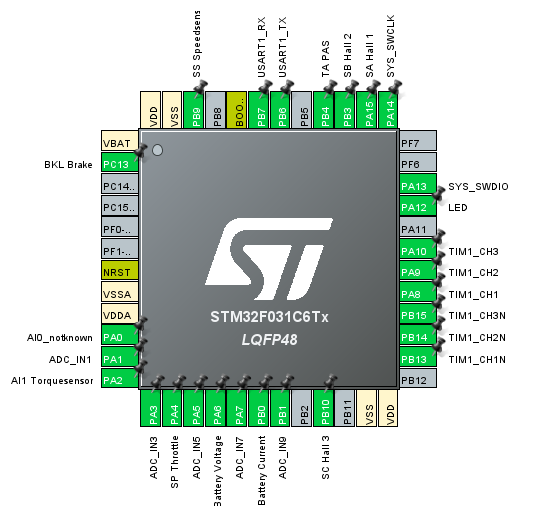
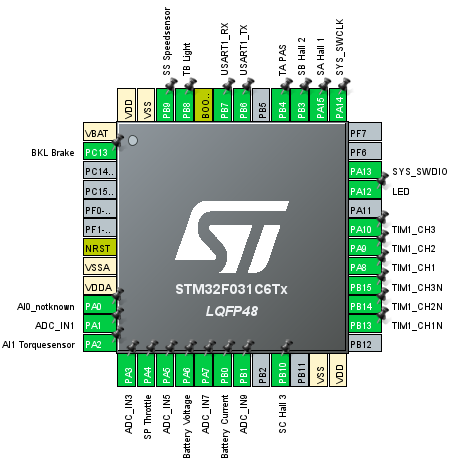
Brake sensor and Light output added

Changed region(s): [[0.0, 0.0302, 0.9676, 0.9978], [0.3629, 0.4233, 0.635, 0.6955]]

diff --git a/Core/Src/main.c b/Core/Src/main.c
@@ -247,10 +247,10 @@ int main(void)
     Error_Handler();
   }
 
-
-  LL_TIM_OC_SetCompareCH1(TIM1, 0);
-  LL_TIM_OC_SetCompareCH2(TIM1, 0);
-  LL_TIM_OC_SetCompareCH3(TIM1, 0);
+  LL_TIM_DisableAllOutputs(TIM1);
+  LL_TIM_OC_SetCompareCH1(TIM1, 1);
+  LL_TIM_OC_SetCompareCH2(TIM1, 1);
+  LL_TIM_OC_SetCompareCH3(TIM1, 1);
 
   //HAL_Delay(1000); //wait for stable conditions
 
@@ -265,7 +265,7 @@ int main(void)
 	  }
   ui16_battery_current_offset=(ui16_battery_current_offset>>5);
   i16_battery_current_cumulated=ui16_battery_current_offset<<4;
-  LL_TIM_DisableAllOutputs(TIM1);
+
   /* USER CODE END 2 */
 
   /* Infinite loop */
@@ -328,8 +328,8 @@ int main(void)
 	  if(ui16_timing_counter>16){ //run control @1kHz
 		  slow_loop_counter++;
 		  if(slow_loop_counter>20){//debug printout @50Hz
-			  HAL_GPIO_TogglePin(GPIOA, GPIO_PIN_12);
-
+			  HAL_GPIO_TogglePin(LED_GPIO_Port, LED_Pin);
+			  HAL_GPIO_TogglePin(Light_GPIO_Port, Light_Pin);
 			 // print_debug_info();
 			  slow_loop_counter=0;
 		  	  }
@@ -338,6 +338,10 @@ int main(void)
 			  ui16_SPEEDx100_kph=0;
 			  ui16_SPEED=64000;
 		  }
+		  //check break lever switch
+		  if(!HAL_GPIO_ReadPin(BKL_Brake_GPIO_Port, BKL_Brake_Pin))ui16_setpoint_temp=0;
+		  //calculate wanted battery current from sensor data
+		  else{
 		  if(KM.Settings.RideMode==NCTE || KM.Settings.RideMode==ERider){
 			//calculate current target form torque, cadence and assist level
 		    uint16_mapped_PAS = (TS_COEF*(int16_t)(ui8_assist_level)* (ui16_torque_cumulated>>5)/ui16_PAS)>>8; //>>5 aus Mittelung Ã¼ber eine Kurbelumdrehung, >>8 aus KM5S-Protokoll Assistlevel 0..255
@@ -362,6 +366,8 @@ int main(void)
 		  else ui16_setpoint_temp=uint16_mapped_Throttle;
 		  //push assist with constant power
 		  if(ui8_Push_Assist_flag)ui16_setpoint_temp=150*KM.Settings.DoublePushAssist;
+		  }//end else break
+
 		  // limit speed if legal Flag is set
 		  if(KM.Settings.LegalFlag){
 			if(ui16_PAS_counter<PAS_TIMEOUT){//ramp down setpoint at speed limit
@@ -787,6 +793,13 @@ static void MX_GPIO_Init(void)
 	  GPIO_InitStruct.Pull = GPIO_NOPULL;
 	  GPIO_InitStruct.Speed = GPIO_SPEED_FREQ_LOW;
 	  HAL_GPIO_Init(LED_GPIO_Port, &GPIO_InitStruct);
+
+	  /*Configure GPIO pin : Light_Pin */
+	  GPIO_InitStruct.Pin = Light_Pin;
+	  GPIO_InitStruct.Mode = GPIO_MODE_OUTPUT_PP;
+	  GPIO_InitStruct.Pull = GPIO_NOPULL;
+	  GPIO_InitStruct.Speed = GPIO_SPEED_FREQ_LOW;
+	  HAL_GPIO_Init(Light_GPIO_Port, &GPIO_InitStruct);
 
 	  /*Configure GPIO pins : TA_PAS_Pin SS_Speed_Pin */
 	  GPIO_InitStruct.Pin = TA_PAS_Pin|SS_Speed_Pin;

diff --git a/Core/Inc/main.h b/Core/Inc/main.h
@@ -75,6 +75,8 @@ void kingmeter_update(void);
 #define SC_Hall_3_GPIO_Port GPIOB
 #define LED_Pin GPIO_PIN_12
 #define LED_GPIO_Port GPIOA
+#define Light_Pin GPIO_PIN_8
+#define Light_GPIO_Port GPIOB
 #define SA_Hall_1_Pin GPIO_PIN_15
 #define SA_Hall_1_GPIO_Port GPIOA
 #define SB_Hall_2_Pin GPIO_PIN_3
